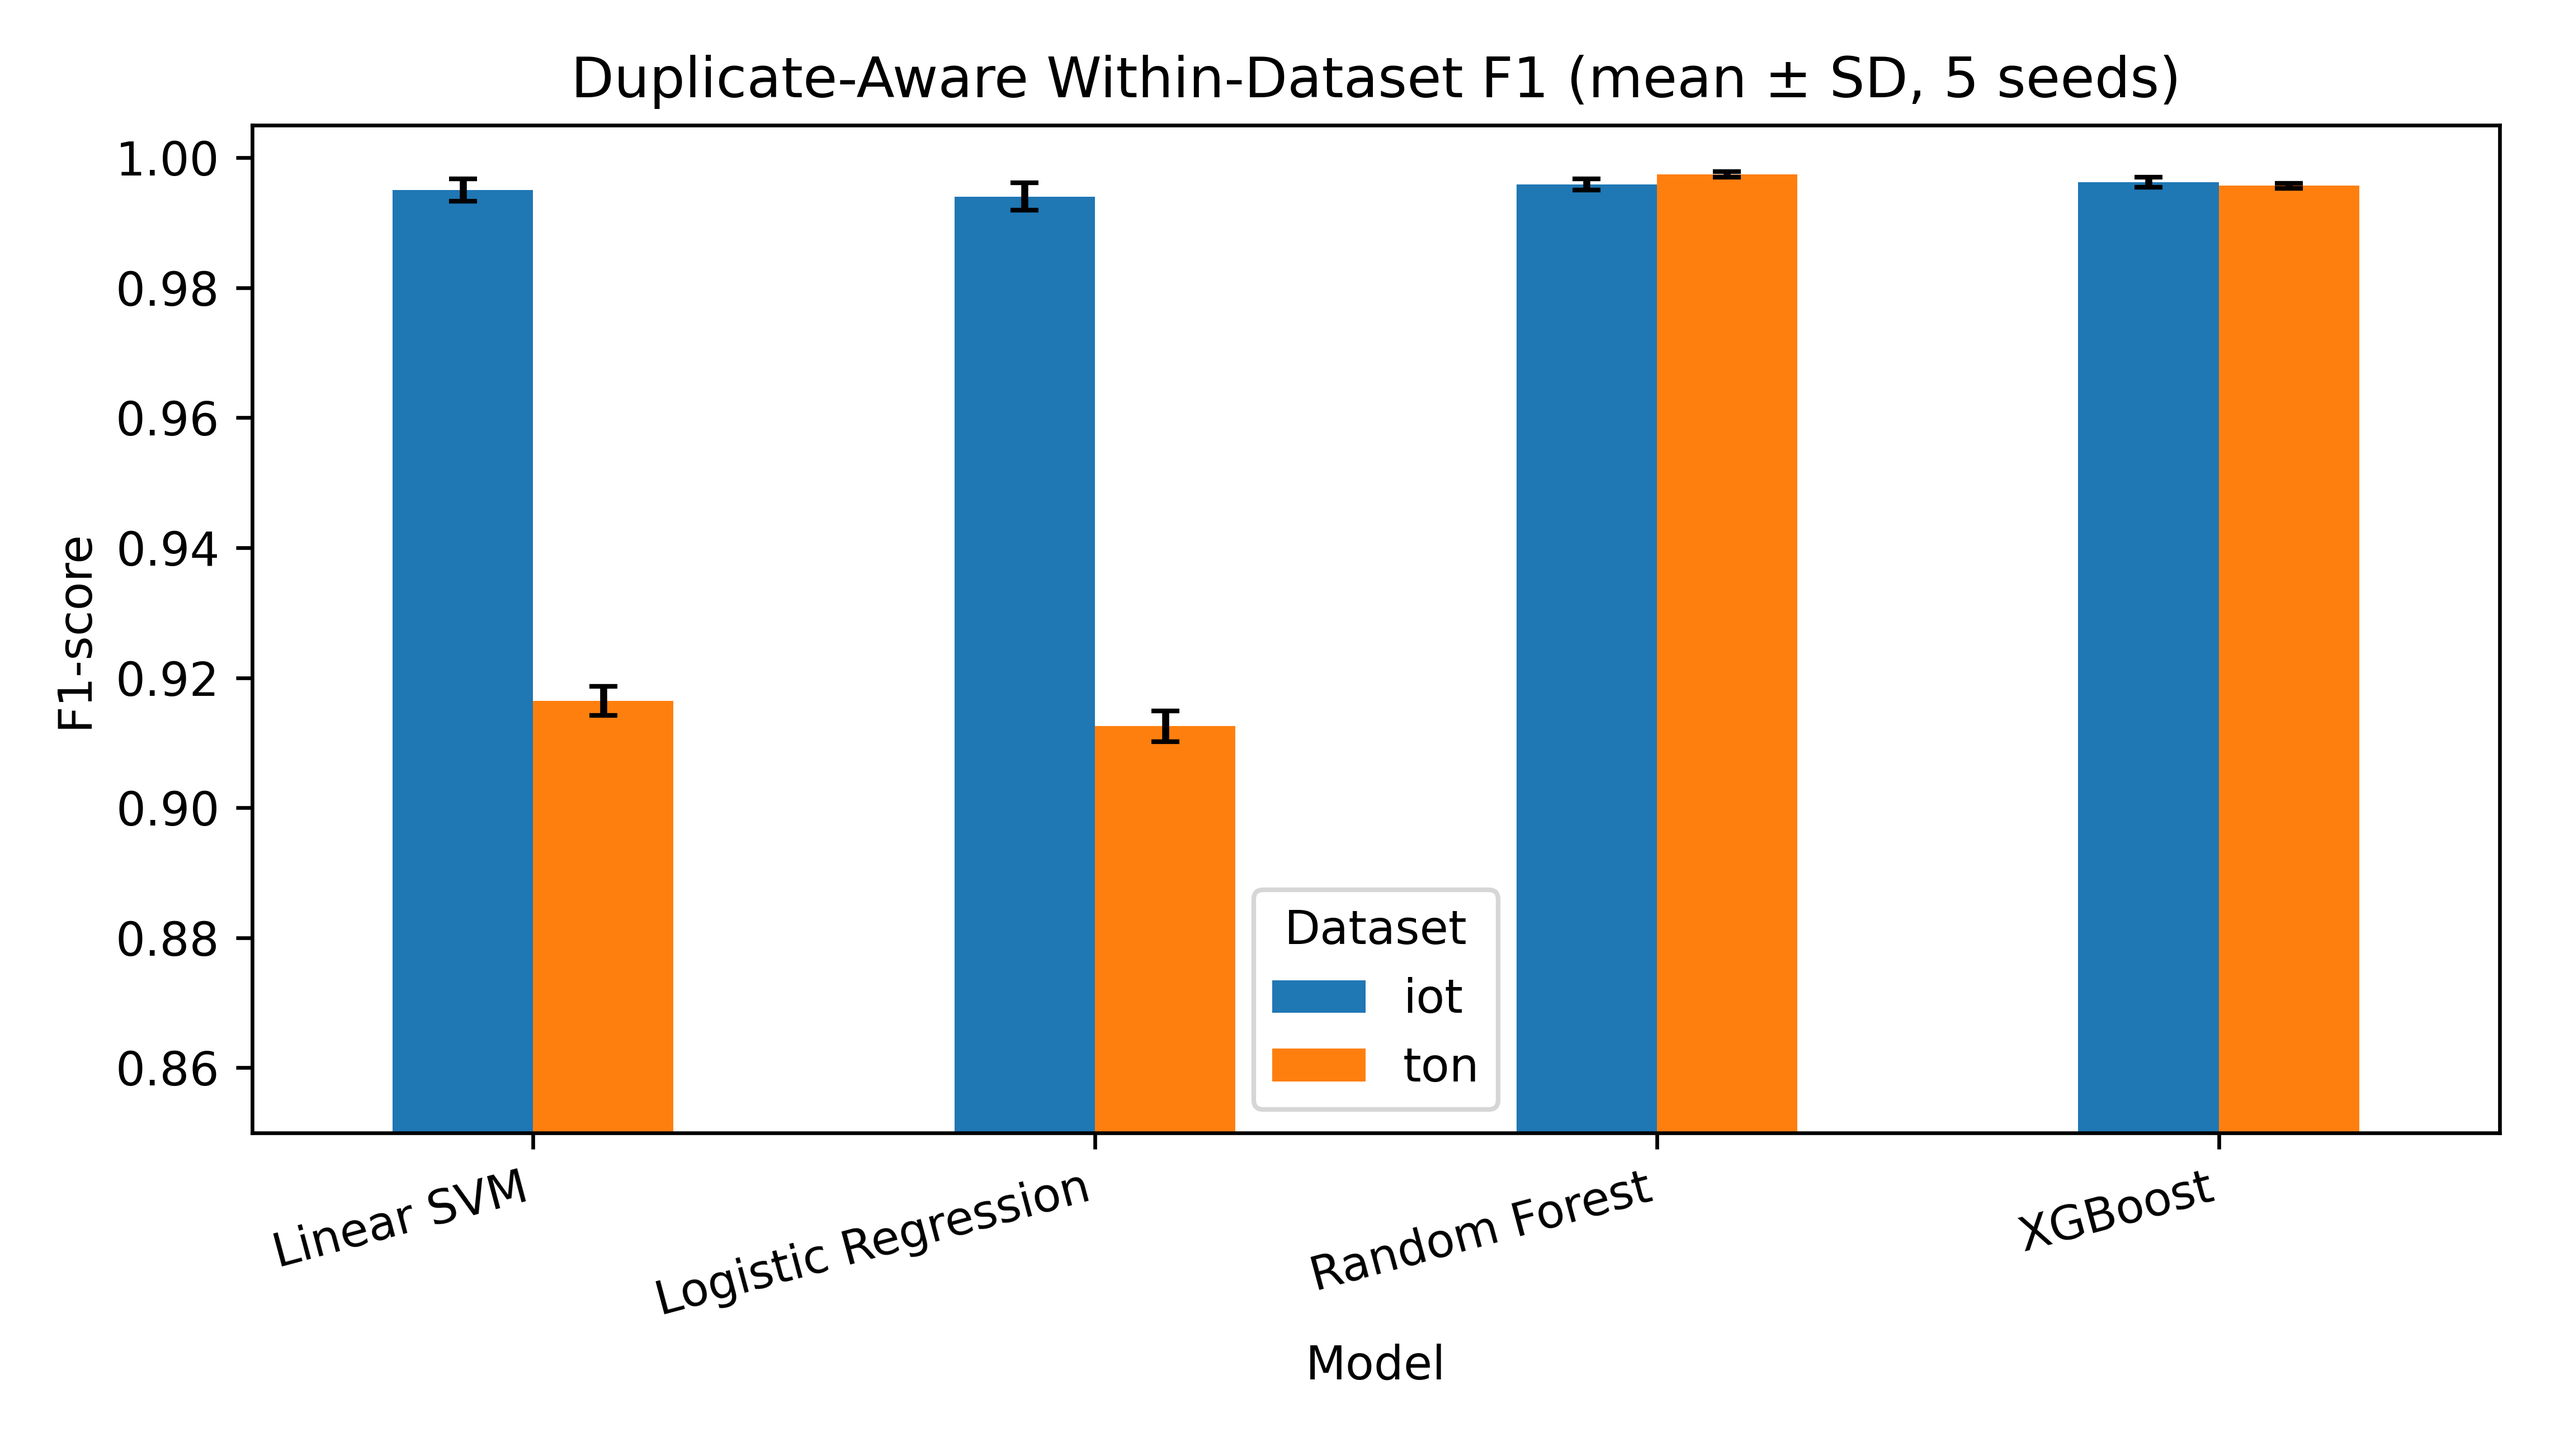
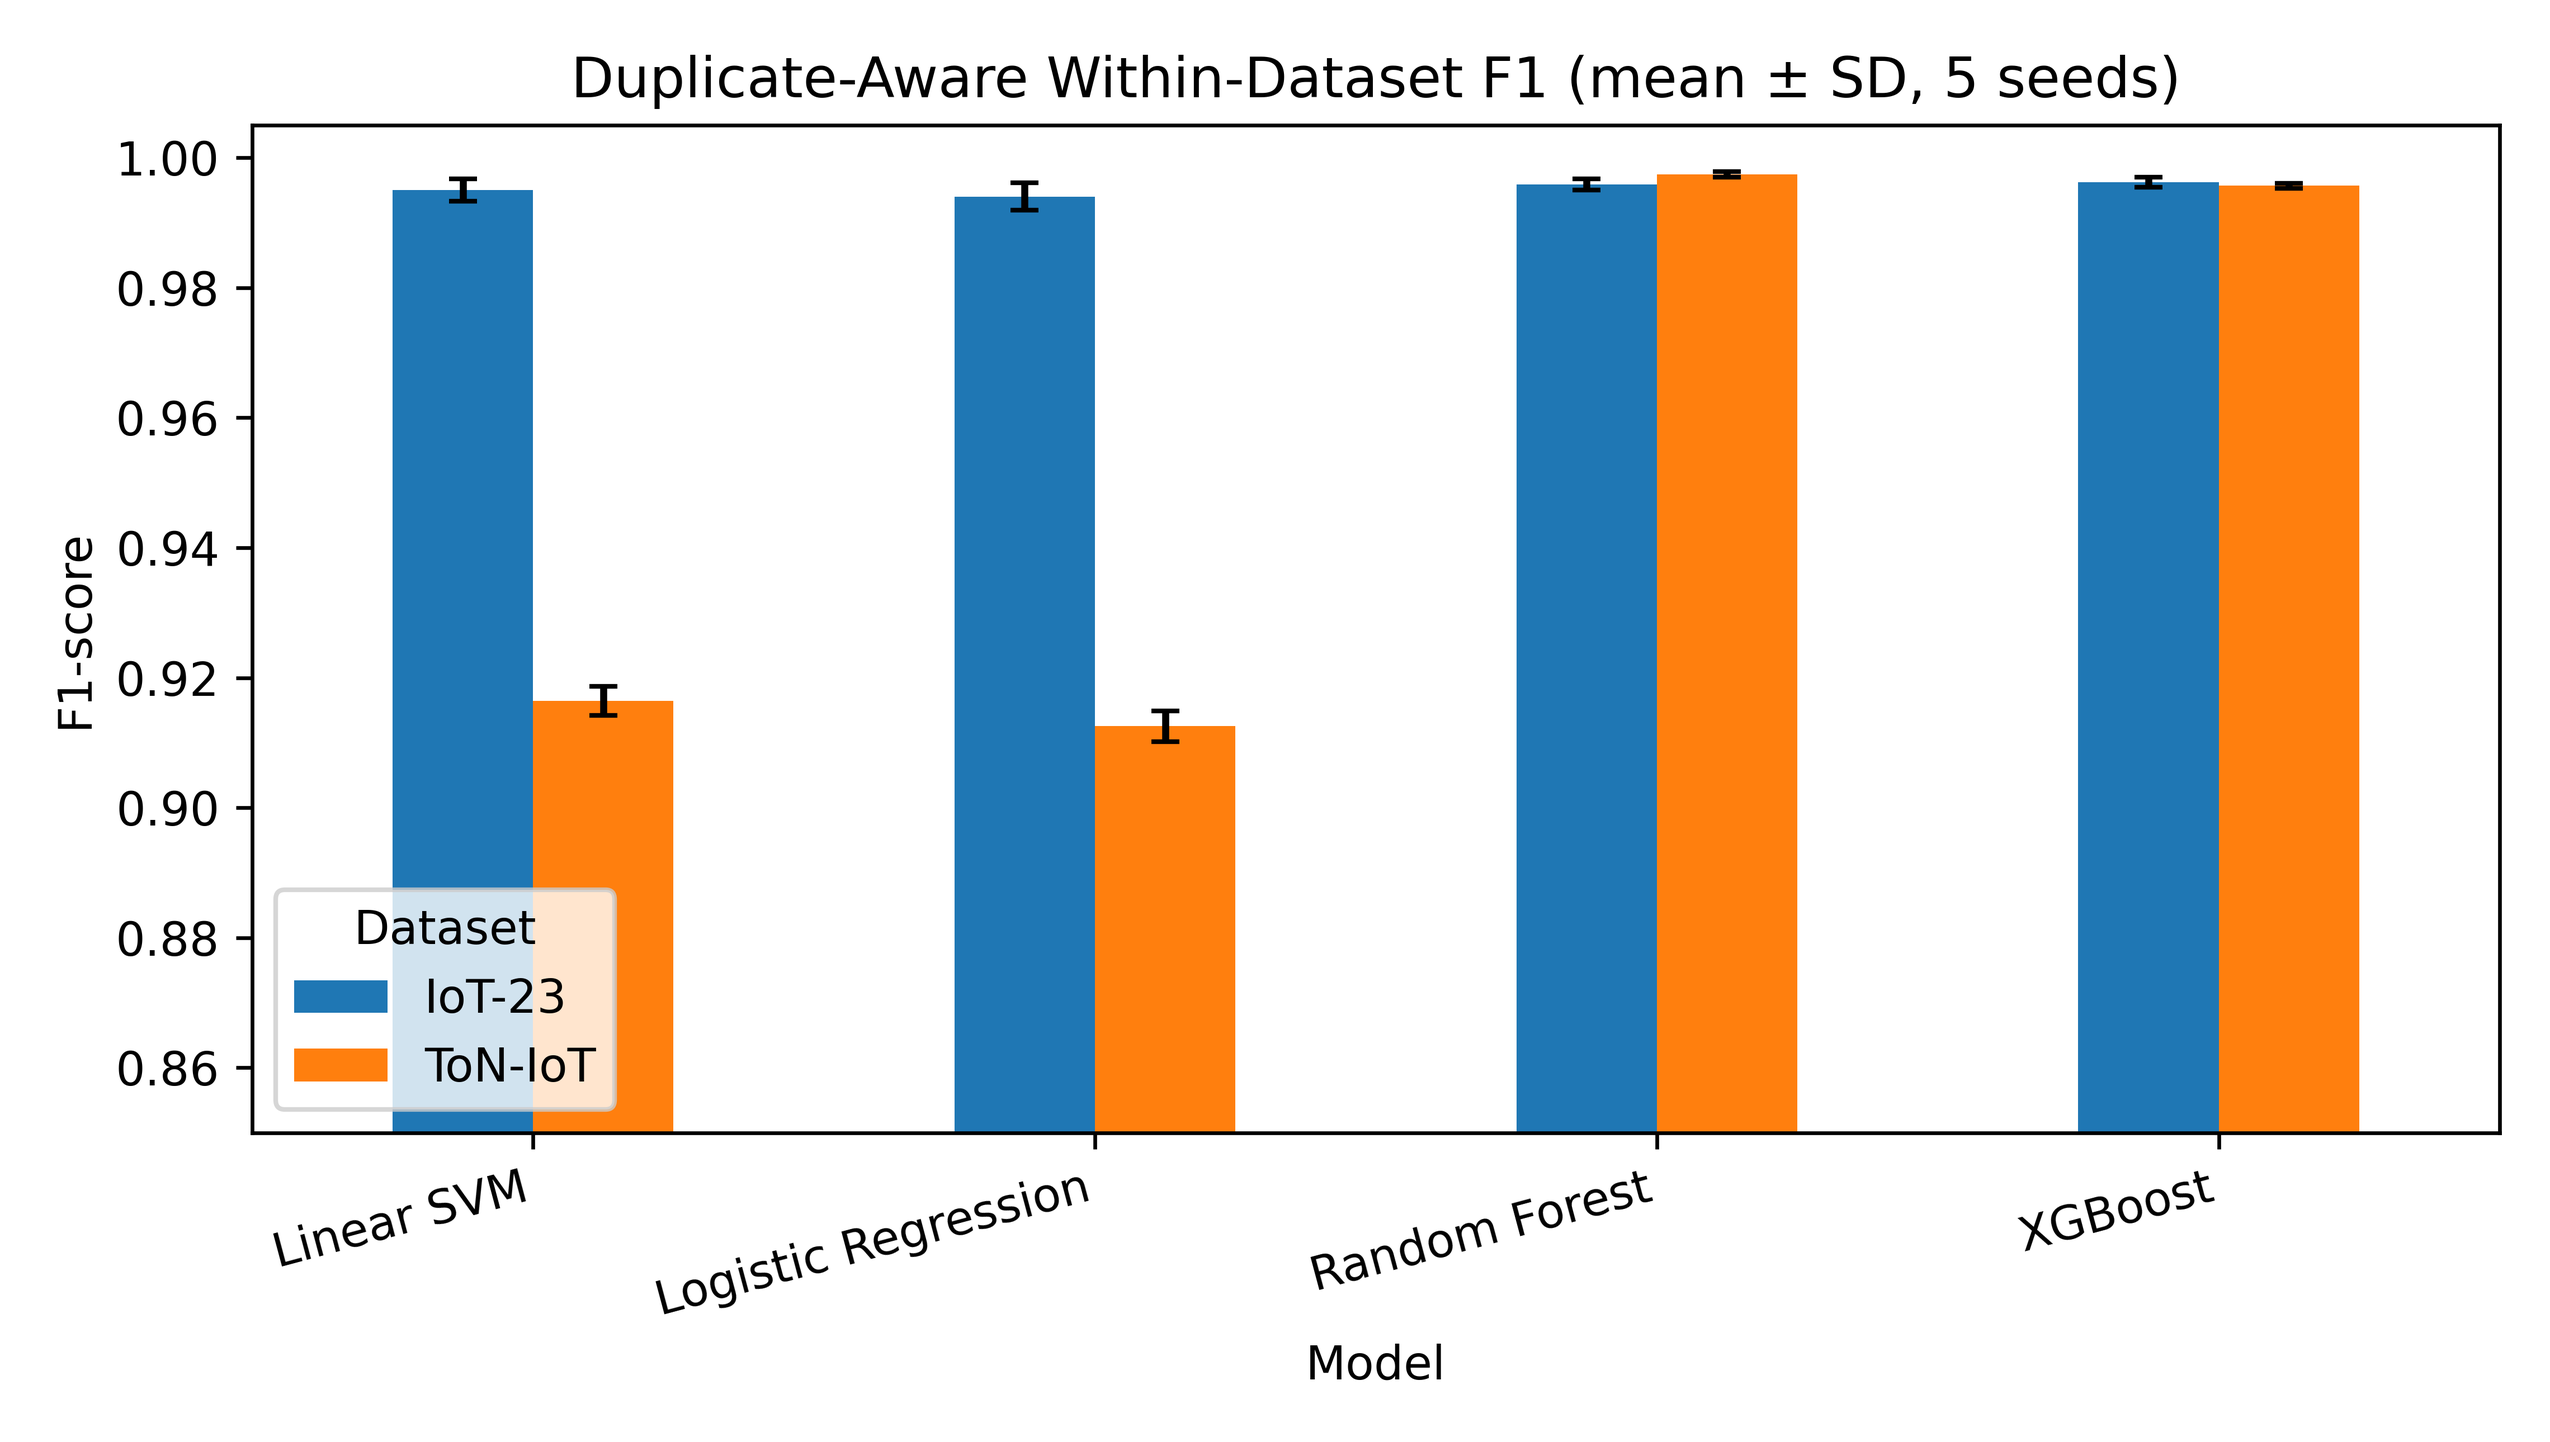
Refine analysis, update figures, and improve documentation

Changed region(s): [[0.0934, 0.5891, 0.2491, 0.7752], [0.4982, 0.6202, 0.5917, 0.7752]]

diff --git a/scripts/08_make_final_figures.py b/scripts/08_make_final_figures.py
@@ -26,6 +26,10 @@ plt.close()
 
 # Figure 2
 summary = pd.read_csv(CORE/'five_seed_duplicate_aware_summary.csv')
+summary['Dataset'] = summary['Dataset'].replace({
+    'iot': 'IoT-23',
+    'ton': 'ToN-IoT',
+})
 model_order = ['Linear SVM','Logistic Regression','Random Forest','XGBoost']
 summary['Model'] = pd.Categorical(summary['Model'], categories=model_order, ordered=True)
 summary = summary.sort_values('Model')

diff --git a/README.md b/README.md
@@ -43,7 +43,7 @@ Create `data` in the repository root and put the following files directly inside
 | `2019-01-10-14-34-38-192.168.1.197-zeek-conn-log.txt` | Trojan/FileDownload |
 | `2019-07-03-16-41-09-192.168.1.158-zeek-conn-log.txt` | Somfy Door Lock, benign |
 
-Obtain the data from the sources cited in manuscript references [1], [2] and [7]. These filenames identify the local exports used in the study. The parsers expect those tab-separated Zeek log layouts, including their label formatting. The Somfy export has no label columns and is explicitly treated as benign. Do not substitute a different dataset version or reformat the logs without checking parsing and record counts.
+Obtain the data from the sources cited in manuscript references [1], [2] and [17]. These filenames identify the local exports used in the study. The parsers expect those tab-separated Zeek log layouts, including their label formatting. The Somfy export has no label columns and is explicitly treated as benign. Do not substitute a different dataset version or reformat the logs without checking parsing and record counts.
 
 The `data` directory is excluded from Git. Derived pickles and local rerun outputs inside it are also excluded.
 
